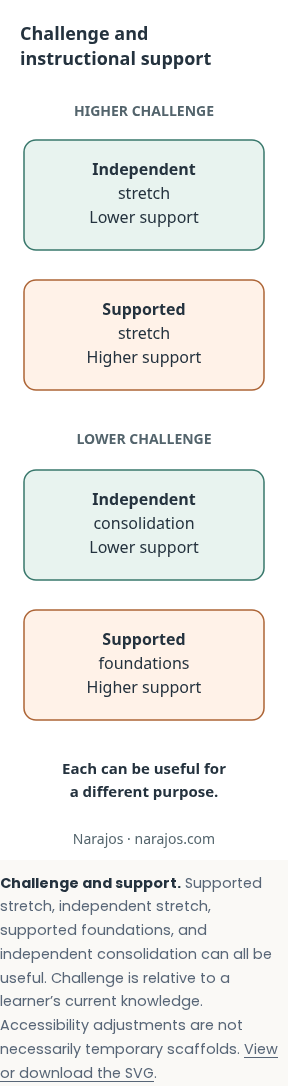
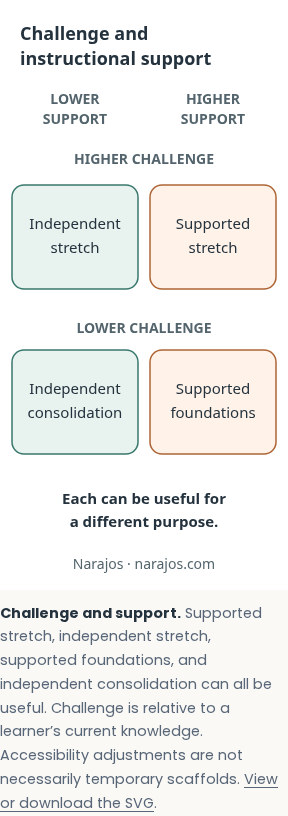
Refine learning framework and mobile matrix

Changed region(s): [[0.0, 0.3983, 0.9688, 1.0], [0.0312, 0.0, 0.9688, 0.3676]]

diff --git a/public/teaching-for-lasting-learning/index.html b/public/teaching-for-lasting-learning/index.html
@@ -31,7 +31,7 @@
 <section id="framework"><h2>Thinking about learning and teaching together</h2>
 <p>The diagram below is a way of organising my thinking, rather than a model that has itself been tested. It brings together several relationships that matter when I plan and adapt teaching.</p>
 <p>What pupils already know affects how they make sense of new information. Instruction and practice can develop that knowledge, which then becomes part of the foundation for later learning. Teachers use what pupils say, write, and do as evidence, while recognising that performance is an imperfect guide to learning. Task design and support can also affect what pupils are able to show.</p>
-<figure class="article-figure" id="figure-framework"><picture><source media="(max-width: 600px)" srcset="/assets/teaching-for-lasting-learning/framework-mobile.svg" width="288" height="1740"><img src="/assets/teaching-for-lasting-learning/framework-desktop.svg" width="880" height="1160" alt="Prior knowledge, instruction and practice, developed knowledge, independent competence, observed performance, teacher interpretation, motivation, and self-regulation within conditions for learning."></picture><figcaption><strong>A framework for learning and teaching.</strong> Conditions for learning support the whole process. Prior knowledge informs instruction. Instruction and practice can develop knowledge, which can support independent competence and become prior knowledge for later learning. Developed knowledge and the task, instruction, and support can each influence observable performance. Teachers interpret that evidence and may adapt instruction. Motivation and self-regulation are distinct learner factors that can influence participation. <a href="/assets/teaching-for-lasting-learning/framework-desktop.svg" aria-label="View or download SVG: A framework for learning and teaching">View or download the SVG</a>.</figcaption></figure>
+<figure class="article-figure" id="figure-framework"><picture><source media="(max-width: 600px)" srcset="/assets/teaching-for-lasting-learning/framework-mobile.svg" width="288" height="1168"><img src="/assets/teaching-for-lasting-learning/framework-desktop.svg" width="880" height="1000" alt="Prior knowledge, instruction and practice, developed knowledge, independent competence, observed performance, teacher interpretation, motivation, and self-regulation within conditions for learning."></picture><figcaption><strong>A framework for learning and teaching.</strong> Conditions for learning, including accessibility, support the whole process. Prior knowledge and instruction can each contribute to developing knowledge, which can support independent competence and become prior knowledge for later learning. Developed knowledge and the task, instruction, and support can each influence observable performance. Teachers interpret this evidence and may adapt instruction; they cannot directly observe pupils’ existing knowledge. Motivation and self-regulation are distinct influences throughout. <a href="/assets/teaching-for-lasting-learning/framework-desktop.svg" aria-label="View or download SVG: A framework for learning and teaching">View or download the SVG</a>.</figcaption></figure>
 <p>The arrows show relationships worth considering, not a fixed teaching sequence or guaranteed outcomes. Conditions for learning support the whole process. Motivation and self-regulation are distinct influences; neither develops in just one way.</p>
 </section>
 <section id="conditions"><h2>Create the conditions for learning</h2>
@@ -54,7 +54,7 @@
 <section id="independence"><h2>Guide pupils towards independence</h2>
 <p>Explicit instruction makes important thinking visible. I can model how to approach a question, explain a decision, and then guide pupils through a similar problem before expecting them to work more independently (<a href="#ref-rosenshine">Rosenshine, 2012</a>).</p>
 <p>Scaffolding is temporary support that helps a learner complete a task they could not yet manage in the same way alone. It might be a prompt, a partially completed example, or a carefully chosen question (<a href="#ref-wood">Wood, Bruner, and Ross, 1976</a>). I can adjust the challenge of a task and the support I provide separately: a demanding problem can be well supported, and a familiar task can be completed independently.</p>
-<figure class="article-figure" id="figure-challenge-support"><picture><source media="(max-width: 600px)" srcset="/assets/teaching-for-lasting-learning/challenge-support-mobile.svg" width="288" height="860"><img src="/assets/teaching-for-lasting-learning/challenge-support-desktop.svg" width="880" height="600" alt="A two-by-two comparison of higher and lower challenge with higher and lower instructional support."></picture><figcaption><strong>Challenge and support.</strong> Supported stretch, independent stretch, supported foundations, and independent consolidation can all be useful. Challenge is relative to a learner’s current knowledge. Accessibility adjustments are not necessarily temporary scaffolds. <a href="/assets/teaching-for-lasting-learning/challenge-support-desktop.svg" aria-label="View or download SVG: Challenge and support">View or download the SVG</a>.</figcaption></figure>
+<figure class="article-figure" id="figure-challenge-support"><picture><source media="(max-width: 600px)" srcset="/assets/teaching-for-lasting-learning/challenge-support-mobile.svg" width="288" height="590"><img src="/assets/teaching-for-lasting-learning/challenge-support-desktop.svg" width="880" height="600" alt="A two-by-two comparison of higher and lower challenge with higher and lower instructional support."></picture><figcaption><strong>Challenge and support.</strong> Supported stretch, independent stretch, supported foundations, and independent consolidation can all be useful. Challenge is relative to a learner’s current knowledge. Accessibility adjustments are not necessarily temporary scaffolds. <a href="/assets/teaching-for-lasting-learning/challenge-support-desktop.svg" aria-label="View or download SVG: Challenge and support">View or download the SVG</a>.</figcaption></figure>
 <p>Support should be reduced when evidence suggests that it is no longer needed for the learning goal, rather than according to a fixed timetable. Support that helps one learner may become unnecessary or distracting as their knowledge grows (<a href="#ref-kalyuga">Kalyuga et al., 2003</a>). This does not mean withdrawing an accessibility adjustment that a pupil continues to need.</p>
 <p>On Narajos, worked examples, hints, and guided questions are available in some activities. Their purpose is to help learners make progress towards understanding, not to make every task easy.</p>
 </section>
